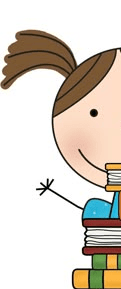
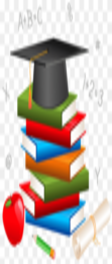
Add files via upload

diff --git a/yo22.py b/yo22.py
@@ -51,6 +51,10 @@ def abrir_toplevel_medicos():
     toplevel_medi.geometry("700x500")
     toplevel_medi.config(bg="#99B7CB")
 
+    # logo de la app
+    lb_logo2 = Label(toplevel_medi, image=medi, bg="white")
+    lb_logo2.place(x=0,y=200)
+
     # etiqueta para datos medicos
     lb_c = Label(toplevel_medi, text = "tube apendisites el año pasado")   
     lb_c.config(bg="#99B7CB", fg="black", font=("Helvetica", 18))
@@ -201,6 +205,10 @@ def abrir_toplevel_horario():
     toplevel_libres.geometry("700x900")
     toplevel_libres.config(bg="#8DA49B")
 
+    # logo de la app
+    lb_logo2 = Label(toplevel_libres, image=libre, bg="white")
+    lb_logo2.place(x=0,y=200)
+
     lb_c = Label(toplevel_libres, text = "en mi orario de clase de lunes a viernes tengo clases 12:30 a 6:30")   
     lb_c.config(bg="#8DA49B", fg="black", font=("Helvetica", 18))
     lb_c.place(x=0, y=20)
@@ -222,6 +230,10 @@ def abrir_toplevel_pruevas():
     toplevel_2026.geometry("700x900")
     toplevel_2026.config(bg="#CBB843")
 
+    # logo de la app
+    lb_logo2 = Label(toplevel_2026, image=prueva, bg="white")
+    lb_logo2.place(x=0,y=200)
+
     lb_c = Label(toplevel_2026, text = "estudiar")   
     lb_c.config(bg="#CBB843", fg="black", font=("Helvetica", 18))
     lb_c.place(x=0, y=20)
@@ -234,6 +246,23 @@ def abrir_toplevel_proyecto():
     toplevel_proyect.resizable(False, False)
     toplevel_proyect.geometry("700x900")
     toplevel_proyect.config(bg="#B5B898")
+
+# logo de la app
+    lb_logo2 = Label(toplevel_proyect, image=proyecto, bg="white")
+    lb_logo2.place(x=0,y=200)
+
+    lb_c = Label(toplevel_proyect, text = "para el 2031 yo pienso estar en la universidad")   
+    lb_c.config(bg="#B5B898", fg="black", font=("Helvetica", 18))
+    lb_c.place(x=0, y=20)
+
+    lb_c = Label(toplevel_proyect, text = "estudiando ingieneria en sistemas")   
+    lb_c.config(bg="#B5B898", fg="black", font=("Helvetica", 18))
+    lb_c.place(x=0, y=60)
+
+    lb_c = Label(toplevel_proyect, text = "")   
+    lb_c.config(bg="#B5B898", fg="black", font=("Helvetica", 18))
+    lb_c.place(x=0, y=60)
+
 
     # abrir hola
 def abrir_toplevel_libre():
@@ -278,12 +307,7 @@ lb_logo = Label(frame_entrada, image=logo, bg="white")
 lb_logo.place(x=20,y=170)
 
 # logo de la app
-amigos = PhotoImage(file="img/hello.png")
-lb_amigos = Label(frame_entrada, image=amigos, bg="white")
-lb_amigos.place(x=700,y=170)
-
-# logo de la app
-amigos = PhotoImage(file="img/hello.png")
+amigos = PhotoImage(file="img/amigos.png")
 lb_amigos = Label(frame_entrada, image=amigos, bg="white")
 lb_amigos.place(x=700,y=170)
 
@@ -296,6 +320,26 @@ lb_famili.place(x=380,y=170)
 edu = PhotoImage(file="img/edu.png")
 lb_edu = Label(frame_entrada, image=edu, bg="white")
 lb_edu.place(x=550,y=170)
+
+# logo de la app
+medi = PhotoImage(file="img/medi.png")
+lb_medi = Label(frame_entrada, image=medi, bg="white")
+lb_medi.place(x=190,y=170)
+
+# logo de la app
+libre = PhotoImage(file="img/libre.png")
+lb_libre = Label(frame_entrada, image=libre, bg="white")
+lb_libre.place(x=190,y=450)
+
+# logo de la app
+prueva = PhotoImage(file="img/prueva.png")
+lb_prueva = Label(frame_entrada, image=prueva, bg="white")
+lb_prueva.place(x=380,y=450)
+
+# logo de la app
+proyecto = PhotoImage(file="img/proyecto.png")
+lb_proyecto = Label(frame_entrada, image=proyecto, bg="white")
+lb_proyecto.place(x=550,y=450)
 
 # boton para abrir Toplevel para nacimiento
 bt_rty = Button(frame_entrada, text="nacimiento", command=abrir_toplevel_nacimi,)
@@ -319,23 +363,23 @@ bt_centigrados.place(x=700, y=150, width=115)
 
 # boton para abrir Toplevel para habbies
 bt_centigrados = Button(frame_entrada, text="habbies", command=abrir_toplevel_hobbies)
-bt_centigrados.place(x=20, y=600, width=115)
+bt_centigrados.place(x=20, y=450, width=115)
 
 # boton para abrir Toplevel para horario
 bt_centigrados = Button(frame_entrada, text="horario", command=abrir_toplevel_horario)
-bt_centigrados.place(x=190, y=600, width=115)
+bt_centigrados.place(x=190, y=450, width=115)
 
 # boton para abrir Toplevel para pruevas
 bt_centigrados = Button(frame_entrada, text="pruevas", command=abrir_toplevel_pruevas)
-bt_centigrados.place(x=380, y=600, width=115)
+bt_centigrados.place(x=380, y=450, width=115)
 
 # boton para abrir Toplevel para proyecto
 bt_centigrados = Button(frame_entrada, text="proyecto", command=abrir_toplevel_proyecto)
-bt_centigrados.place(x=550, y=600, width=115)
+bt_centigrados.place(x=550, y=450, width=115)
 
 # boton para abrir Toplevel para libre
 bt_centigrados = Button(frame_entrada, text="libre", command=abrir_toplevel_libre)
-bt_centigrados.place(x=700, y=600, width=115)
+bt_centigrados.place(x=700, y=450, width=115)
 
 # se ejecuta el metodo mainloop() de la clase Tk() a través de la instancia ventana_principal. Este metodo despliega la ventana en pantalla y queda a la espera de lo que el usuario haga (click en un boton, escribir, etc).  Cada acción del usuario se conoce como un evento.  El método mainloop() es un bucle infinito.
 ventana_principal.mainloop()
